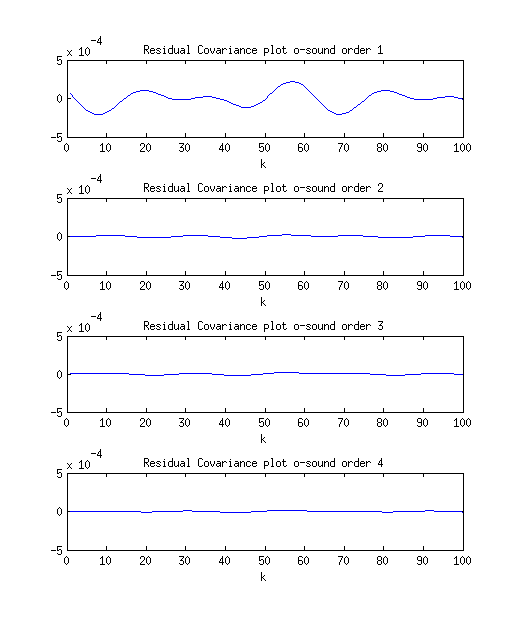
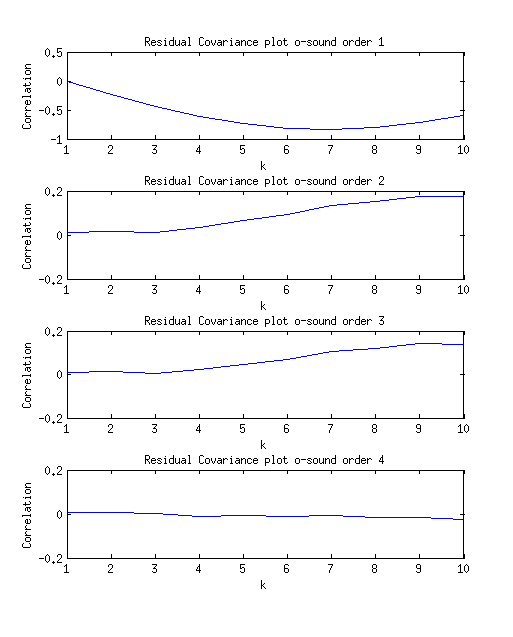
Nästan klar med vowel

diff --git a/report.tex b/report.tex
@@ -7,7 +7,7 @@
 \usepackage{float}
 \usepackage{listings}
 \usepackage{color}
-\title{Reprt lab 1}
+\title{Report lab 1}
 \author{Group 22}
 \date{\today}
 
@@ -176,6 +176,9 @@ This means that the loss function for validation data can be used to estimate mo
 
 The residual covarince approach for model validation exploits the fact that an AR model is filtering white noise.
 This means that if the inverse filter is applied to validation data the result should be white noise.
+This can be used directly by checking that what you get is white noise.
+A way of checking for white noise is to that the signal changes sign with probability 0.5.
+Another way to use this is the following.
 Let this inverse filterd data be $\epsilon(t)$ then $R_{\epsilon \epsilon}(\tau) = \lambda\delta(t)$.
 Since $\epsilon(t)$ is white noise $R_{\epsilon y}(\tau) = E\epsilon(t) y(t-\tau) = 0$ for $\tau > 0$.
 This can then be used for validation of models.
@@ -186,6 +189,7 @@ To get data to use in the assignment two sounds are recorded one with an a-sound
 The recordings are each two seconds long.
 These files are then imported into Matlab and the means of the signals is removed.
 The signals are then split into estimation and validation data.
+Two thirds of the signals are used for estimation and one third is used for validation.
 The DFT of the is then generated and plotted.
 DFTs can be used to get a rough estimate of model order by counting the number of peaks in them.
 Each pair of complex-conjugated poles of the AR model will create a peak in the model spectrum.
@@ -196,11 +200,50 @@ The o-sound has one peak that are higher than the others then there are two more
 This is an indication that the a-sound probably needs a higher order model than the o-sound.
 
 After this an AR-model is estimated for orders 1-20 and the loss function of the validation data is plotted with respect to model order.
-The result can be seen in figure \ref{loss_function}.
-The
+The result can be seen in figure \ref{loss_function}. 
 
+The o-sound has a clear "knee" at order 2 and an at least local minima at order 5.
+This suggest that the AR of order 2 probably is sufficient but orders up to 5 will probably improve the model.
+Higher model orders than 5 seems unnecessary.
 
-\subsection{Results}
+The order of the a-sound is harder to estimate.
+This plot has no clear "knee" and the estimation seems to be getting better and better when the model order increases.
+The loss function for the a-sound is also larger than for the o-sound.
+This is an indication that the model for the a-sound might not be that good.
+After order 10 the loss functions seems to be more or less horizontal so this might be a good order estimate.
+
+When this is done the models should be validated.
+First $e(t)$ is calculated and checked for whiteness.
+This is done by checking the probability of a sign change for between $e(t)$ and $e(t+1)$.
+The results is
+
+\begin{tabular}{l|l|l|l|l|l|l|l|l|l|l}
+  \hline
+  Model order & 1 & 2 & 3 & 4 & 5 & 6 & 7 & 8 & 9 & 10 \\
+  A-sound & 0.344 & 0.657 & 0.439 & 0.472 & 0.462 & 0.474 & 0.485 & 0.468 & 0.429 & 0.502 \\
+  O-sound & 0.122 & 0.520 & 0.567 & 0.595 & 0.539 & 0.554 & 0.551 & 0.542 & 0.555 & 0.552 \\
+\end{tabular}
+
+Both the signals seems to have models that change sign with about 50 \% chance when the model order is higher than 2.
+For the o-sound even the second order model seems to behave well.
+
+After this is done another test is used on the same $e(t)$.
+$R_{ey}$ the residual covariance is estimated and then plotted for model orders 1-4.
+The result is in figures \ref{res_cov_a} and \ref{res_cov_o}.
+Notice that the plot for model order 1 is scaled differently than the rest.
+A plot that is close to zero means that the model is good.
+Here it seems that model order should be a bit higher for the a-sound than for the o-sound.
+The o-sound seems fine for model order 4.
+The a-sound still is a bit above zero and there is some positive correlation with the input signal.
+This is also true for higer order models of tha a-sound.
+This is not that much though.
+
+\subsection{Conclusion}
+
+With all of this a reasonable model order for the o-sound seems to be 4.
+This model order has done well on all the validation methods it has benn tested with.
+The model order for the a-sound should probably be a bit higher altohugh a good conclusion is hard to reach.
+A model order of 8 to 10 is probably good.
 
 \begin{figure}[H]
   \centering
@@ -221,13 +264,17 @@ The
 \begin{figure}[H]
   \centering
   \includegraphics[width=14cm]{residual_covariance_a.png}
-  \caption{The residual covariance of different model orders for the a-sound}
+  \caption{
+    \label{res_cov_a}
+    The residual covariance of different model orders for the a-sound}
 \end{figure}
 
 \begin{figure}[H]
   \centering
   \includegraphics[width=14cm]{residual_covariance_o.png}
-  \caption{The residual covariance of different model orders for the o-sound}
+  \caption{
+    \label{res_cov_o}
+    The residual covariance of different model orders for the o-sound}
 \end{figure}
 
 \section{Sentence}

diff --git a/linwovel.m b/linwovel.m
@@ -26,10 +26,10 @@ length(abs(fft(aa)))
 plot(x, abs(fft(aa)));
 xlabel('Hz');
 ylabel('Amplitude');
-legend('DFT a-sound');
+title('DFT a-sound');
 subplot(2, 1, 2);
 plot(x, abs(fft(oo)));
-legend('DFT o-sound');
+title('DFT o-sound');
 xlabel('Hz');
 ylabel('Amplitude');
 %spectrum(oo);
@@ -59,40 +59,51 @@ subplot(2,1,1);
 plot(varaa);
 title('Loss function of validation data a-sound');
 ylabel('Variance');
+ylim([0 0.08]);
 xlabel('Model Order');
 subplot(2,1,2);
 plot(varoo);
+[mi, i] = min(varoo)
 title('Loss function of validation data o-sound');
 ylabel('Variance');
+ylim([0 0.08]);
 xlabel('Model Order');
 %%
 
 % Calculate whiteness for whiteness test for different model orders.
-start = 17;
-for k = (start:start+4)
+aa_pr_s = [];
+oo_pr_s = [];
+for k = 1:20
+    aa_pr_s = [aa_pr_s sum(abs(diff(sign(resaa(:,k)))))/2/len_val];
+    oo_pr_s = [oo_pr_s sum(abs(diff(sign(resoo(:,k)))))/2/len_val];
+end
+aa_pr_s
+oo_pr_s
+
+%%
+% Calculate residual covariance for different model orders.
+start = 10;
+for k = (start:start+3)
     figure(3);
     subplot(4,1,k-start+1);
-    %covf([resaa(:,k); aa_val'])
-    index = -len_val+1:len_val-1;
-    %plot(index, xcorr(resaa(:,k), aa_val'));
-    %plot(resaa(:,k));
-    caa =covf([resaa(:,k) aa_val'], 100);%/sqrt(var(resaa(:,k))*var(aa_val')); 
-    plot(caa(2,:)');
+    [Reyaa, kk] = sig2crosscovfun(resaa(:,k), aa_val', 10);
+    plot(kk, Reyaa/sqrt(var(resaa(:,k))*var(aa_val')));
     aa_max = max(xcorr(resaa(:,k), aa_val'))
     title(sprintf('Residual Covariance plot a-sound order %d', k));
-    %ylabel('Variance');
+    ylabel('Correlation');
     xlabel('k');
-    ylim([-0.0005 0.0005]);
+    xlim([1 10]);
+    if k ~= 1; ylim([-0.2 0.2]); end;
+    %plot(resaa(:,k));
     figure(4);
     subplot(4,1,k-start+1);
-    %plot(index, xcorr(resoo(:,k), oo_val'));
-    %plot(resoo(:,k));
-    coo =covf([resoo(:,k) oo_val'], 100);%/sqrt(var(resoo(:,k))*var(oo_val')); 
-    plot(coo(2,:)');
+    [Reyoo, kk] = sig2crosscovfun(resoo(:,k), oo_val', 10);
+    plot(kk, Reyoo/sqrt(var(resoo(:,k))*var(oo_val')));
     title(sprintf('Residual Covariance plot o-sound order %d', k));
-    %ylabel('Variance');
+    ylabel('Correlation');
     xlabel('k');
-    ylim([-0.0005 0.0005]);
+    xlim([1 10]);
+    if k ~= 1; ylim([-0.2 0.2]); end;
 end
 %%
 

diff --git a/linsentence.m b/linsentence.m
@@ -25,7 +25,7 @@ plot(lambada);
 %}
 %%
 
-na = 8;
+na = 20;
 cov = [];
 est = zeros(length(sen),1);
 delay = 0;
@@ -60,7 +60,9 @@ for i = 1:160:length(sen)-160
         end
         m.a = poly(r2);
     end
+    %A = 1;
     train = sqrt(A*(160/pulse))*(rem((1:160)+delay,pulse) == 1)';
+    %train = sqrt(A*(rem((1:160)+delay,pulse))) == 1)';
     train = sqrt(A)*(rem((1:160)+delay,pulse) == 1)';
     if A < 0.1 +10 
         train = 0.4*sqrt(mean(r))*randn(160, 1)+train;

diff --git a/sig2crosscovfun.m b/sig2crosscovfun.m
@@ -1,0 +1,14 @@
+function [R, k, varR] = sig2crosscovfun(x, y, kmax)
+%Cross covariance function estimation
+if nargin < 3; kmax = 30; end
+N = length(x);
+Rxy=fastconv(x,y(end:-1:1))/N;
+if nargout == 3
+    Rxx = fastconv(x,x(end:-1:1))/N;
+    Ryy = fastconv(y,y(end:-1:1))/N;
+    tmp = fastconv(Rxy,Rxy);
+    varR = 1/N*(sum(Rxx.*Ryy)+tmp(2*N-1:2:2*N-1+2*kmax));
+end
+k = -kmax:kmax;
+R = Rxy(N-kmax:N+kmax);
+end

diff --git a/fastconv.m b/fastconv.m
@@ -1,0 +1,9 @@
+function z = fastconv(x, y)
+% Fast convolution in the frequency domain
+    Nx=length(x);
+    Ny=length(y);
+    xn=[x(:); zeros(Ny, 1)];
+    yn=[y(:); zeros(Nx, 1)];
+    z = real(ifft(fft(yn).*fft(xn)));
+    z(end)=[]; % Last value is always 0
+end
